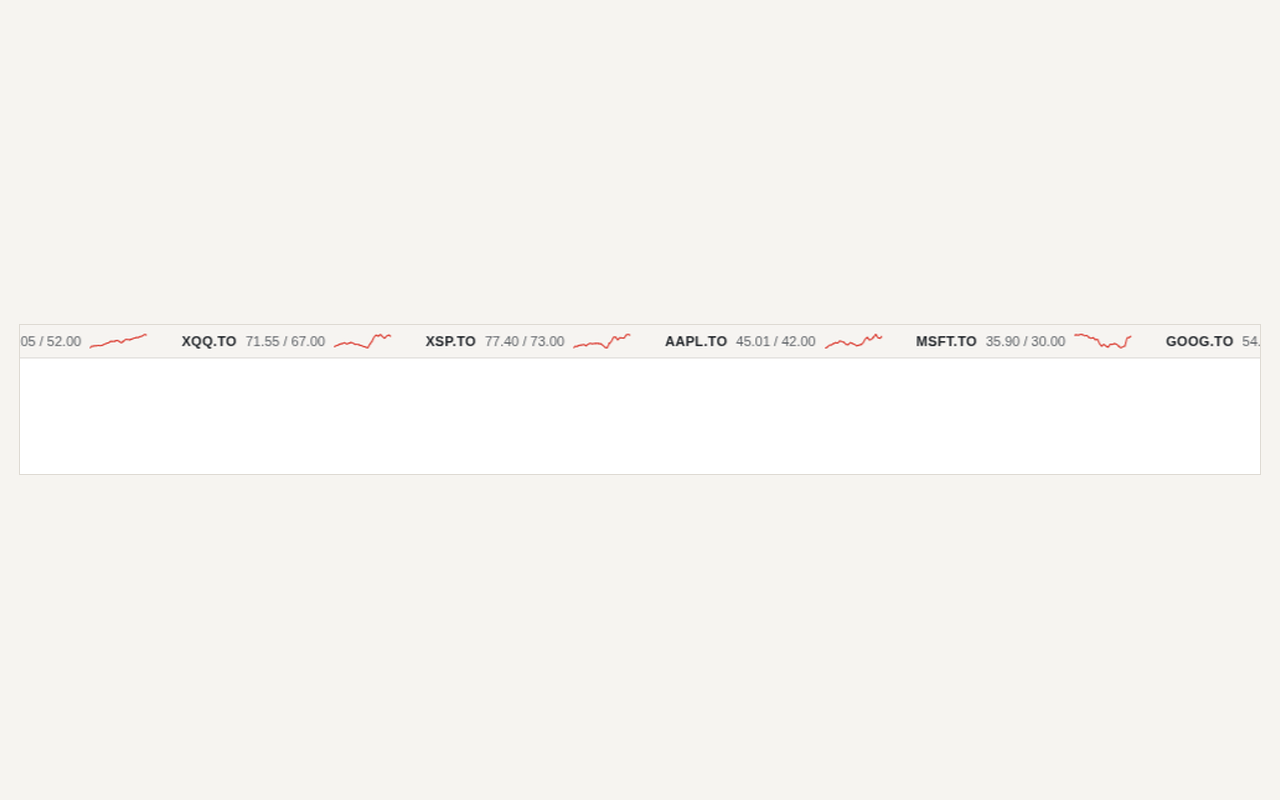
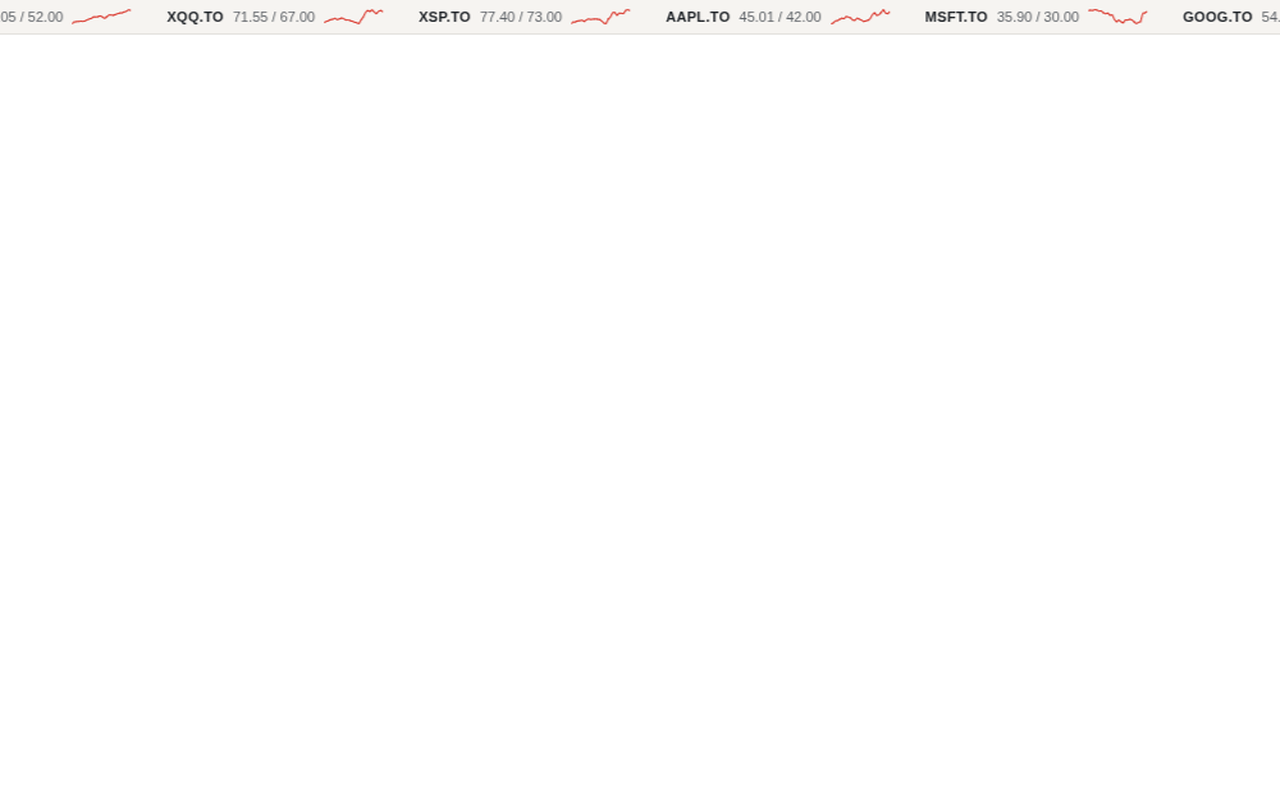
chore: reshape the store screenshots to fill 1280x800
The previous pass scaled each capture to fit and matted it on porcelain, which
left a visible band above and below. These fill the frame instead: scaled to
the full 1280 width, then extended to 800 by replicating one clean edge row per
column, so the page's own background — including the sidebar/main division —
continues to the edge rather than meeting a mat.

The captures are anchored to the bottom and grown upward, since their top rows
are empty page and their bottom rows cut through content. The strip is the
exception: anchored top and grown downward, which is where its blank page
actually is.

Still 24-bit PNG, no alpha.

diff --git a/STORE_LISTING.md b/STORE_LISTING.md
@@ -66,8 +66,10 @@ search terms are sent to Yahoo Finance solely to retrieve prices.
       with no alpha channel, which is what the Store accepts. Upload them in
       filename order: the strip in place on a real page, the watchlist, the
       search dropdown, the all-matches page, the ticker detail dialog. They are
-      the raw captures scaled to fit and centred on the extension's own
-      porcelain ground — nothing is cropped away except the browser scrollbar.
+      the raw captures scaled to the full 1280 width and extended to the full
+      height by continuing the page's own background, so each one fills the
+      frame with no letterbox band. Nothing is cropped away except the browser
+      scrollbar.
 - [ ] Optional small promo tile, 440×280.
 
 ## Release checklist
